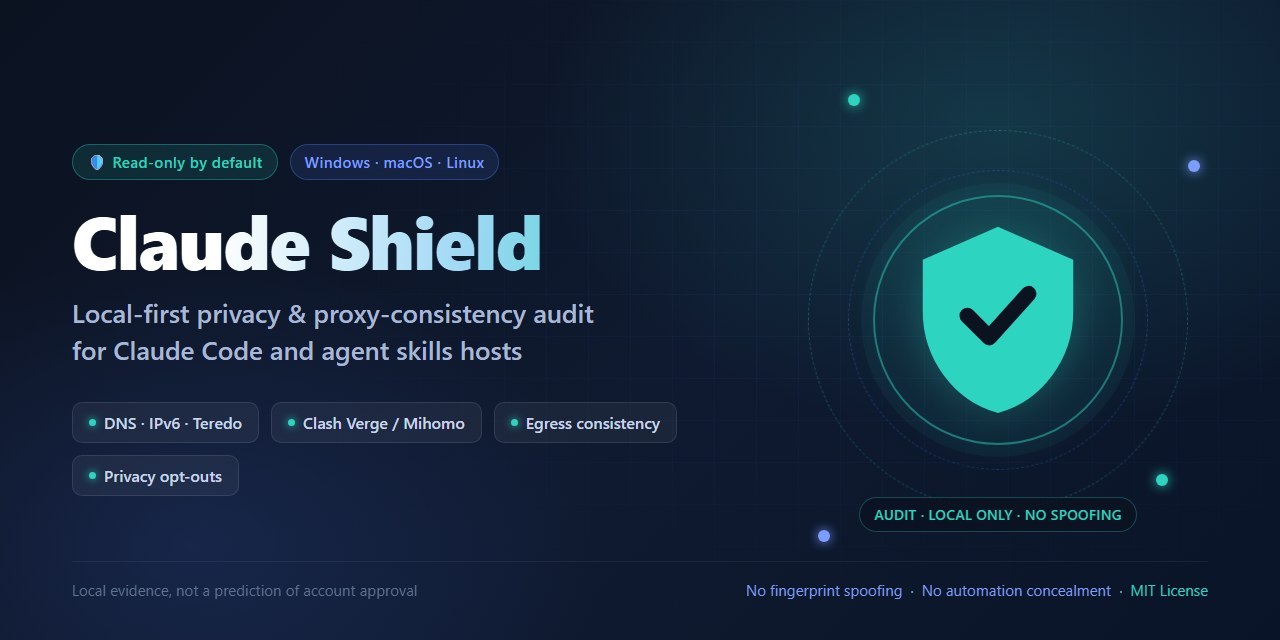
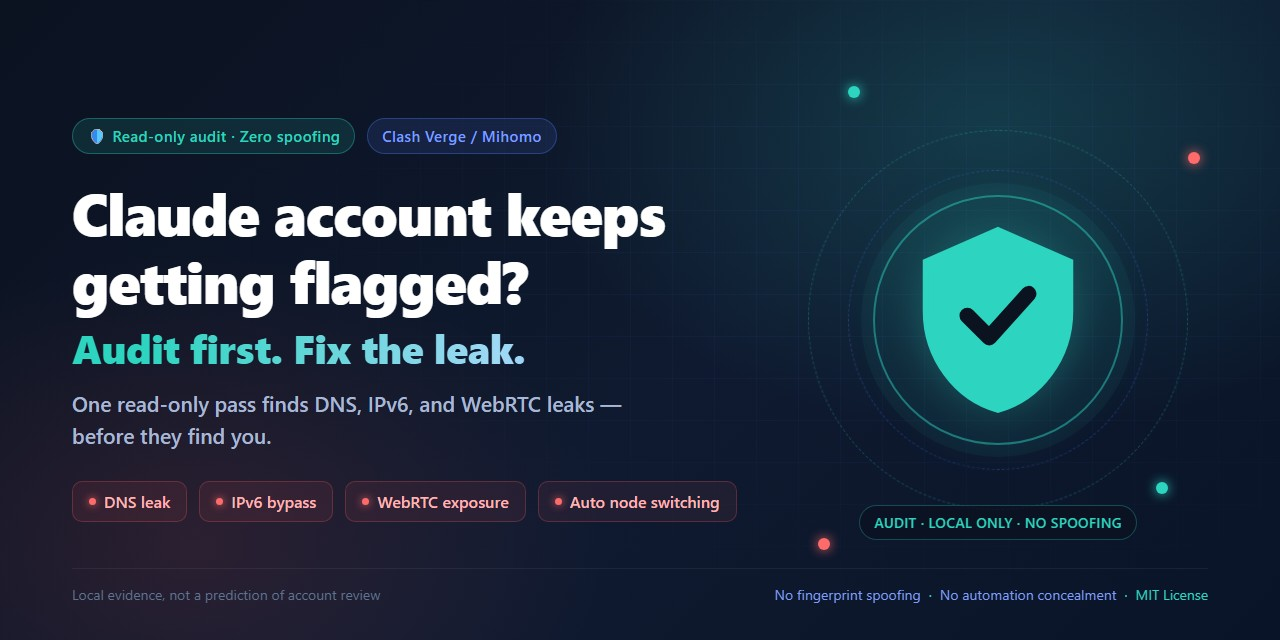
feat: pain-point hero copy for social preview (v2)
Rework the social preview around the target user's core anxiety
instead of product parameters. H1 is the pain question, subtitle is the
action hook, feature chips name the leaks users fear (DNS/IPv6/WebRTC)
in red, and the bottom strip keeps the project's safety disclaimer
(local evidence, not a prediction of review).

Bilingual: social-preview.en.jpg / social-preview.jpg, sources in
assets/*.html. Repo description updated to the same hook:
'Claude account keeps getting flagged? Audit your proxy for DNS, IPv6,
and WebRTC leaks first. Read-only, no spoofing.'

diff --git a/assets/social-preview.en.html b/assets/social-preview.en.html
@@ -1,5 +1,5 @@
 <!DOCTYPE html>
-<html lang="zh-CN">
+<html lang="en">
 <head>
 <meta charset="UTF-8">
 <style>
@@ -39,7 +39,7 @@
   .badge.blue { background: rgba(79,124,255,0.12); color: #7C9CFF; border-color: rgba(79,124,255,0.35); }
 
   h1 {
-    font-size: 62px; font-weight: 800; letter-spacing: -1px; line-height: 1.15;
+    font-size: 58px; font-weight: 800; letter-spacing: -1px; line-height: 1.18;
     color: #FFFFFF;
     margin-bottom: 10px;
   }
@@ -108,17 +108,17 @@
   <div class="content">
     <div class="left">
       <div class="badge-row">
-        <span class="badge">🛡 只读审计 · 零伪装</span>
+        <span class="badge">🛡 Read-only audit · Zero spoofing</span>
         <span class="badge blue">Clash Verge / Mihomo</span>
       </div>
-      <h1>Claude 账号总被风控？</h1>
-      <div class="subtitle">先审计，再续命。</div>
-      <div class="desc">一次只读检查，找到代理配置里的泄漏点——<br>在你意识到之前。</div>
+      <h1>Claude account keeps<br>getting flagged?</h1>
+      <div class="subtitle">Audit first. Fix the leak.</div>
+      <div class="desc">One read-only pass finds DNS, IPv6, and WebRTC leaks —<br>before they find you.</div>
       <div class="features">
-        <span class="feature"><span class="dot"></span>DNS 泄漏</span>
-        <span class="feature"><span class="dot"></span>IPv6 绕过</span>
-        <span class="feature"><span class="dot"></span>WebRTC 暴露</span>
-        <span class="feature"><span class="dot"></span>策略自动切换</span>
+        <span class="feature"><span class="dot"></span>DNS leak</span>
+        <span class="feature"><span class="dot"></span>IPv6 bypass</span>
+        <span class="feature"><span class="dot"></span>WebRTC exposure</span>
+        <span class="feature"><span class="dot"></span>Auto node switching</span>
       </div>
     </div>
 
@@ -142,13 +142,13 @@
       <div class="node n2 b"></div>
       <div class="node n3 b"></div>
       <div class="node n4"></div>
-      <div class="status-pill">审计 · 仅本地 · 不伪装</div>
+      <div class="status-pill">AUDIT · LOCAL ONLY · NO SPOOFING</div>
     </div>
   </div>
 
   <div class="strip">
-    <span>本地证据，不是账号审核通过的预测</span>
-    <span><span style="color:#7C9CFF">不伪造指纹</span><span class="sep">·</span><span style="color:#7C9CFF">不隐藏自动化</span><span class="sep">·</span><span style="color:#2DD4BF">MIT License</span></span>
+    <span>Local evidence, not a prediction of account review</span>
+    <span><span style="color:#7C9CFF">No fingerprint spoofing</span><span class="sep">·</span><span style="color:#7C9CFF">No automation concealment</span><span class="sep">·</span><span style="color:#2DD4BF">MIT License</span></span>
   </div>
 </body>
 </html>
